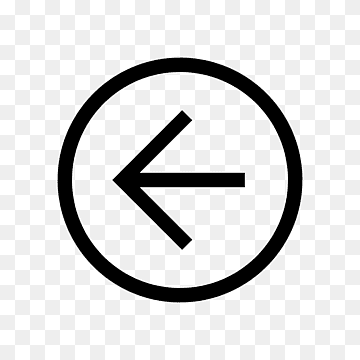
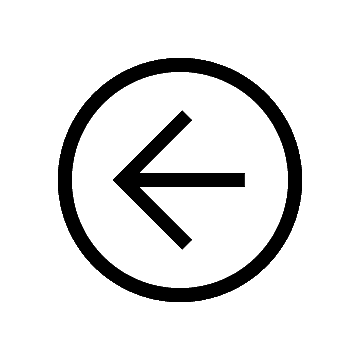
Updated navigation

Changed region(s): [[0.3972, 0.5194, 0.4278, 0.55]]

diff --git a/Ambition.md b/Ambition.md
@@ -1,6 +1,8 @@
-<a href="index.html"><img src="images/prev.png" width="20" height="20"></a>
-<a href="index.html"><img src="images/back.png" width="20" height="20"></a>
-<a href="Education.html"><img src="images/next.png" width="20" height="20"></a>
+<a href="index.html"><img src="images/prev.png" width="40" height="40"></a>
+<a href="index.html"><img src="images/back.png" width="40" height="40"></a>
+<a href="Education.html"><img src="images/next.png" width="40" height="40"></a>
+
+# Personal Details 
 
 <table class="tg">
 <thead>
@@ -60,6 +62,7 @@ In parallel, I like to keep up to date with new technologies and software archit
 Preferably, I combine this with hands-on development of technically challenging projects.
 With the mindset of ‘the sky is the limit’, I also like to prototype innovative ideas from which the ‘differentiators’ are transferred to products.
 
-<a href="index.html"><img src="images/prev.png" width="20" height="20"></a>
-<a href="index.html"><img src="images/back.png" width="20" height="20"></a>
-<a href="Education.html"><img src="images/next.png" width="20" height="20"></a>
+<a href="index.html"><img src="images/prev.png" width="40" height="40"></a>
+<a href="index.html"><img src="images/back.png" width="40" height="40"></a>
+<a href="Education.html"><img src="images/next.png" width="40" height="40"></a>
+

diff --git a/README.md b/README.md
@@ -1,6 +1,6 @@
-# Personal Details 
+<a href="Ambition.html"><img src="images/next.png" width="40" height="40"></a>
 
-<a href="Ambition.html"><img src="images/next.png" width="20" height="20"></a>
+# Personal Details 
 
 <table class="tg">
 <thead>
@@ -45,4 +45,4 @@
 
 ## [Publications](Publications.md)
 
-<a href="Ambition.html"><img src="images/next.png" width="20" height="20"></a>
+<a href="Ambition.html"><img src="images/next.png" width="40" height="40"></a>
